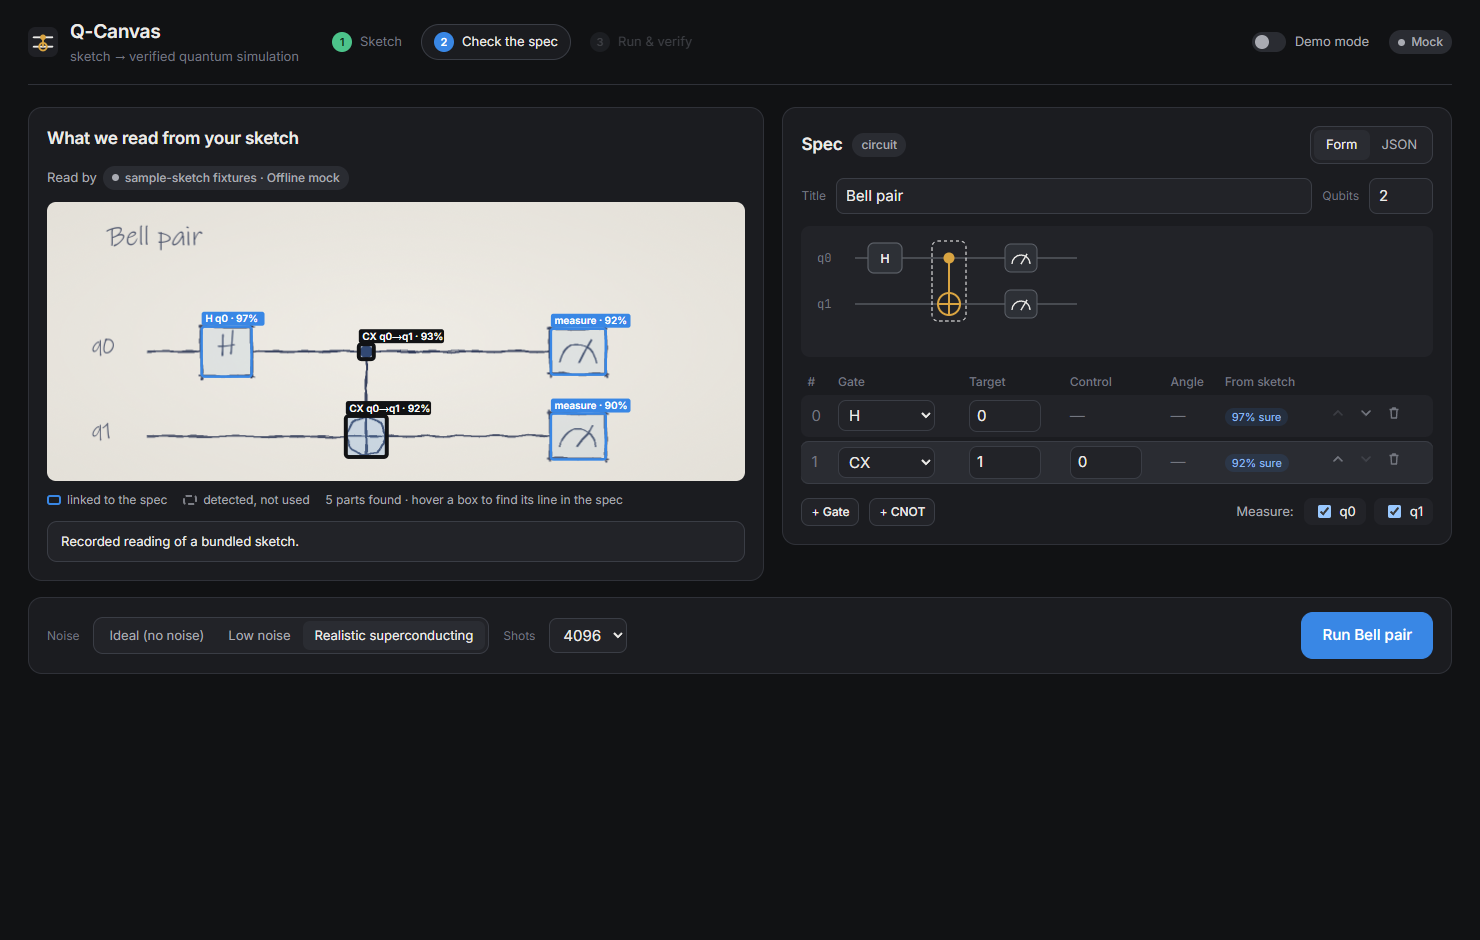
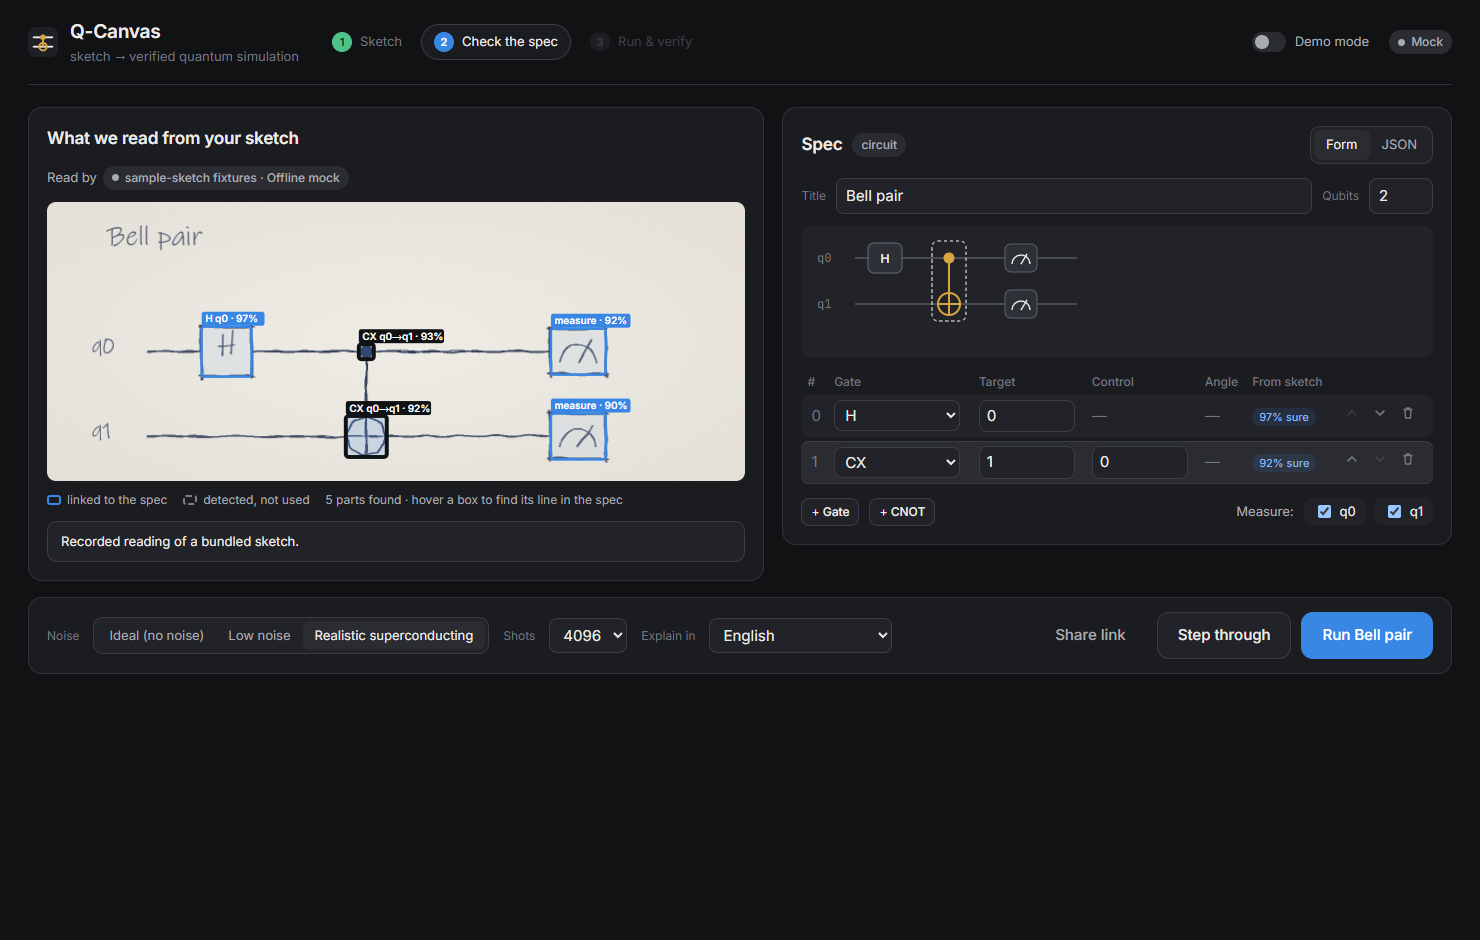
Run-bar layout, wider operation inputs; refreshed screenshots with inspector, analyses, ask and describe

diff --git a/frontend/src/App.tsx b/frontend/src/App.tsx
@@ -278,18 +278,19 @@ export default function App() {
             <select value={options.language} onChange={(e) => setOptions({ ...options, language: e.target.value })} aria-label="Explanation language">
               {(examples?.languages ?? ['English']).map((l) => <option key={l}>{l}</option>)}
             </select>
-            <span className="grow" />
-            {startError && <span className="badge fail">{startError}</span>}
-            <button className="btn big ghost" onClick={shareLink} title="Copy a link that opens this spec">{shared ?? 'Share link'}</button>
-            {spec.kind === 'circuit' && (
-              <button className="btn big" disabled={!valid || preview?.loading} onClick={stepThrough}
-                title="See the exact state after every gate, the entanglement and the noise budget, without running">
-                {preview?.loading ? 'Analysing…' : 'Step through'}
+            <div className="run-actions">
+              {startError && <span className="badge fail">{startError}</span>}
+              <button className="btn big ghost" onClick={shareLink} title="Copy a link that opens this spec">{shared ?? 'Share link'}</button>
+              {spec.kind === 'circuit' && (
+                <button className="btn big" disabled={!valid || preview?.loading} onClick={stepThrough}
+                  title="See the exact state after every gate, the entanglement and the noise budget, without running">
+                  {preview?.loading ? 'Analysing…' : 'Step through'}
+                </button>
+              )}
+              <button className="btn primary big" disabled={!valid} onClick={run}>
+                {checking ? 'Checking…' : issues.length ? 'Fix the spec to run' : `Run ${specTitle(spec)}`}
               </button>
-            )}
-            <button className="btn primary big" disabled={!valid} onClick={run}>
-              {checking ? 'Checking…' : issues.length ? 'Fix the spec to run' : `Run ${specTitle(spec)}`}
-            </button>
+            </div>
           </div>
           {preview?.error && <div className="notice error">{preview.error}</div>}
           {preview?.ins && spec.kind === 'circuit' && <InsightsSection spec={spec} ins={preview.ins} wide />}

diff --git a/frontend/src/index.css b/frontend/src/index.css
@@ -176,7 +176,7 @@ textarea { width: 100%; resize: vertical; font-family: var(--mono); font-size: 1
 .ops td:first-child { border-radius: 8px 0 0 8px; padding-left: 10px; }
 .ops td:last-child { border-radius: 0 8px 8px 0; }
 .ops tr.hl td { background: var(--panel-3); box-shadow: inset 0 1px 0 var(--line-2), inset 0 -1px 0 var(--line-2); }
-.ops input[type='text'] { width: 72px; padding: 4px 7px; }
+.ops input[type='text'] { width: 96px; padding: 4px 7px; }
 .ops input.angle { width: 86px; }
 .ops select { padding: 4px 6px; }
 .chip-src { font-size: 11px; color: #8fbcf2; background: rgba(57, 135, 229, 0.12); padding: 2px 7px; border-radius: 999px; white-space: nowrap; }
@@ -187,6 +187,8 @@ textarea { width: 100%; resize: vertical; font-family: var(--mono); font-size: 1
 .preview { background: var(--panel-2); border-radius: var(--radius-sm); padding: 8px; overflow-x: auto; }
 .run-bar { display: flex; align-items: center; gap: 14px; flex-wrap: wrap; padding: 14px 18px; }
 .run-bar .label { font-size: 12px; color: var(--muted); }
+.run-bar select { width: auto; }
+.run-actions { display: flex; gap: 10px; align-items: center; margin-left: auto; flex-wrap: wrap; }
 
 /* ---------- run ---------- */
 .run-grid { display: grid; grid-template-columns: minmax(380px, 0.85fr) minmax(0, 1.25fr); gap: 18px; align-items: start; }

diff --git a/scripts/capture_ui.py b/scripts/capture_ui.py
@@ -51,7 +51,7 @@ def main() -> None:
         page.hover(".ops tbody tr >> nth=1")
         page.wait_for_timeout(300)
         page.screenshot(path=str(OUT / "2-overlay.png"))
-        page.click("label.toggle")
+        page.click("header label.toggle")
         page.click("button.btn.primary.big")
         frames: list[bytes] = []
         logged_fail = False
@@ -70,7 +70,39 @@ def main() -> None:
         _gif(frames, OUT / "agent-repair.gif")
         page.wait_for_timeout(800)
         page.screenshot(path=str(OUT / "4-results.png"))
+        page.wait_for_selector(".inspector", timeout=120000)
+        page.wait_for_selector(".panel.explain", timeout=120000)
+        page.wait_for_timeout(600)
         page.screenshot(path=str(OUT / "4-results-full.png"), full_page=True)
+
+        # inside the circuit: step back to the superposition, then the analyses
+        page.locator(".inspector").scroll_into_view_if_needed()
+        page.click("button[aria-label='Previous step']")
+        page.wait_for_timeout(500)
+        panel = lambda title: page.locator(".panel", has=page.locator("h2", has_text=title)).first  # noqa: E731
+        panel("Inside the circuit").screenshot(path=str(OUT / "6-inspector.png"))
+        page.click("button[aria-label='Next step']")
+        page.wait_for_timeout(500)
+        panel("Inside the circuit").screenshot(path=str(OUT / "6-inspector-entangled.png"))
+        panel("How good must the hardware be").screenshot(path=str(OUT / "7-hardware.png"))
+        panel("Error budget").screenshot(path=str(OUT / "7-budget.png"))
+        panel("On real chip layouts").screenshot(path=str(OUT / "7-layouts.png"))
+        page.click(".chip-btn:has-text('Why did the first attempt fail?')")
+        page.wait_for_selector(".qa .a p")
+        page.click(".chip-btn:has-text('How good must the hardware be?')")
+        page.wait_for_function("document.querySelectorAll('.qa .a p').length >= 2")
+        page.wait_for_timeout(300)
+        panel("Ask about this result").screenshot(path=str(OUT / "8-ask.png"))
+
+        # describe it in words
+        page.click("nav.steps button >> nth=0")
+        page.fill("input[aria-label='Describe a circuit or network']", "Bernstein-Vazirani with secret 1011")
+        page.click("button:has-text('Build it')")
+        page.wait_for_selector(".ops")
+        page.click("button:has-text('Step through')")
+        page.wait_for_selector(".inspector")
+        page.wait_for_timeout(600)
+        page.screenshot(path=str(OUT / "9-describe.png"))
 
         # network: preset A from the spec list
         page.click("nav.steps button >> nth=0")
